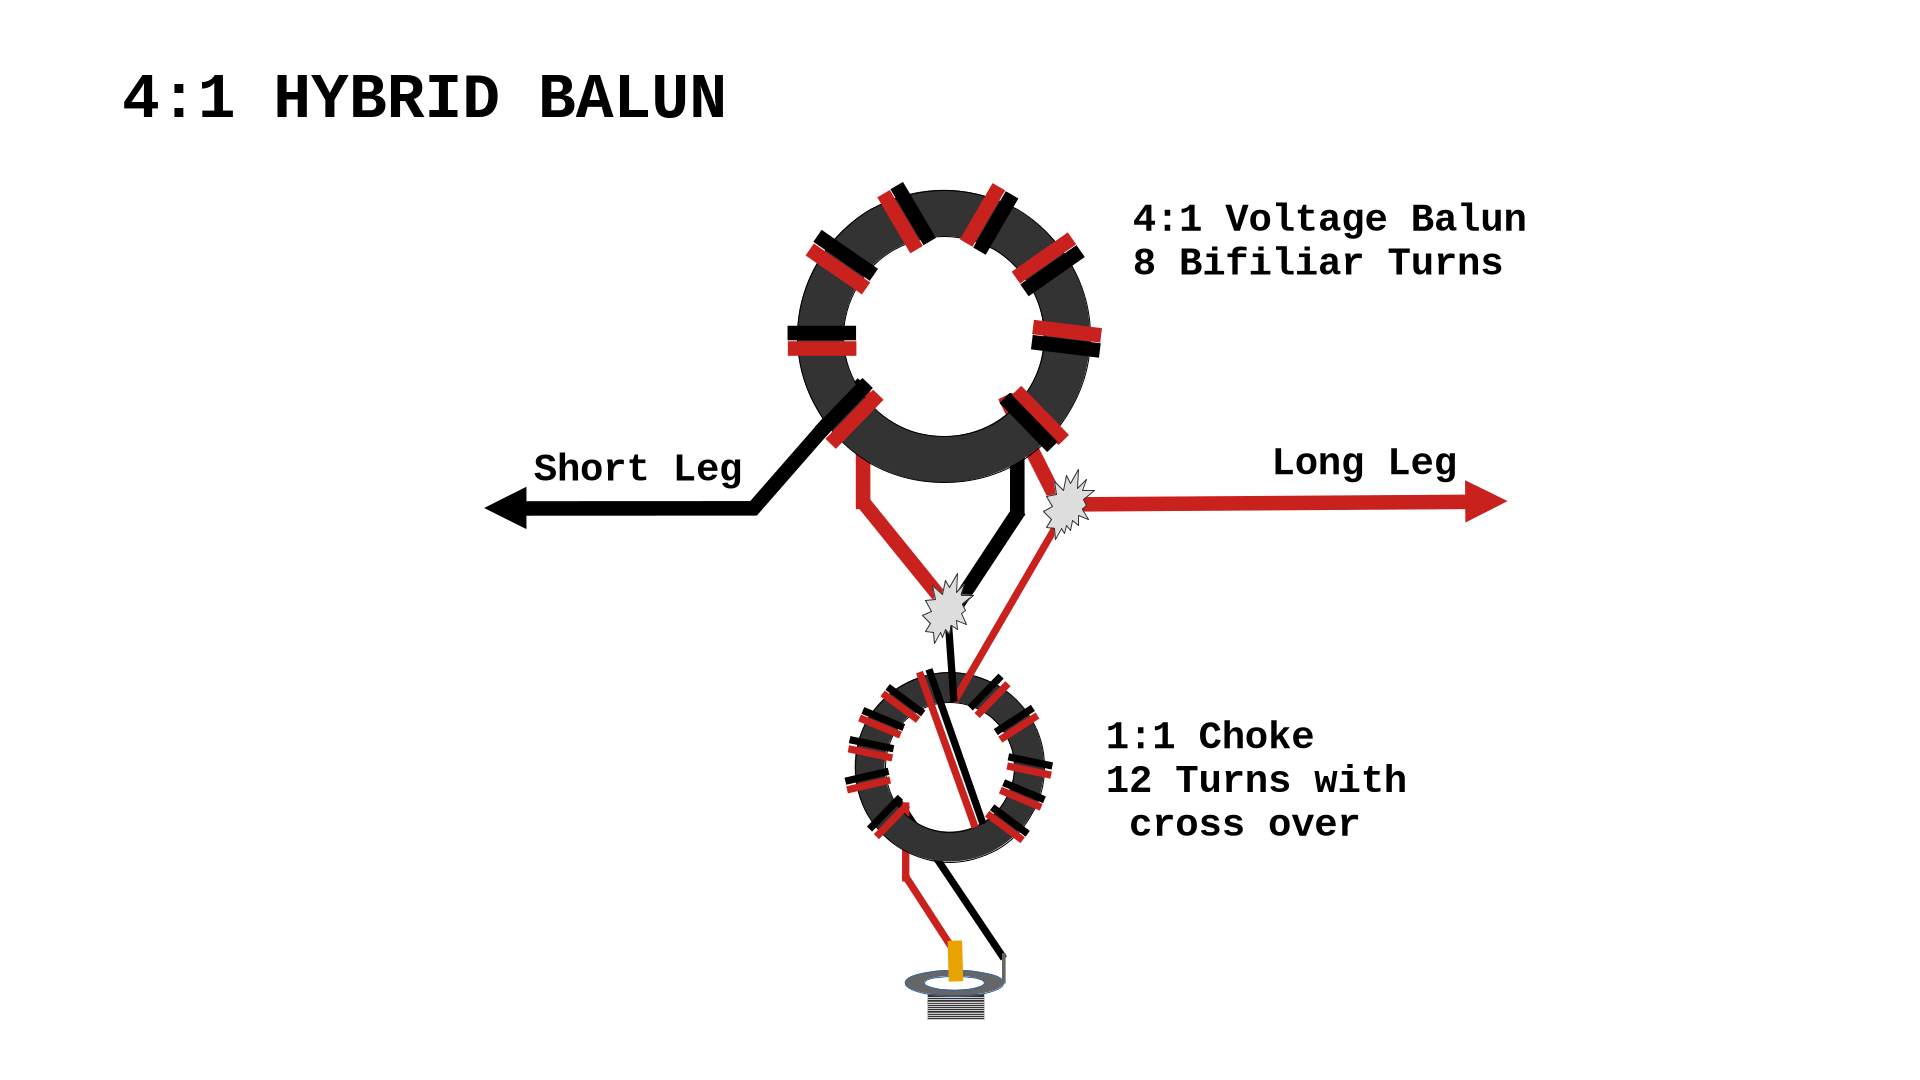
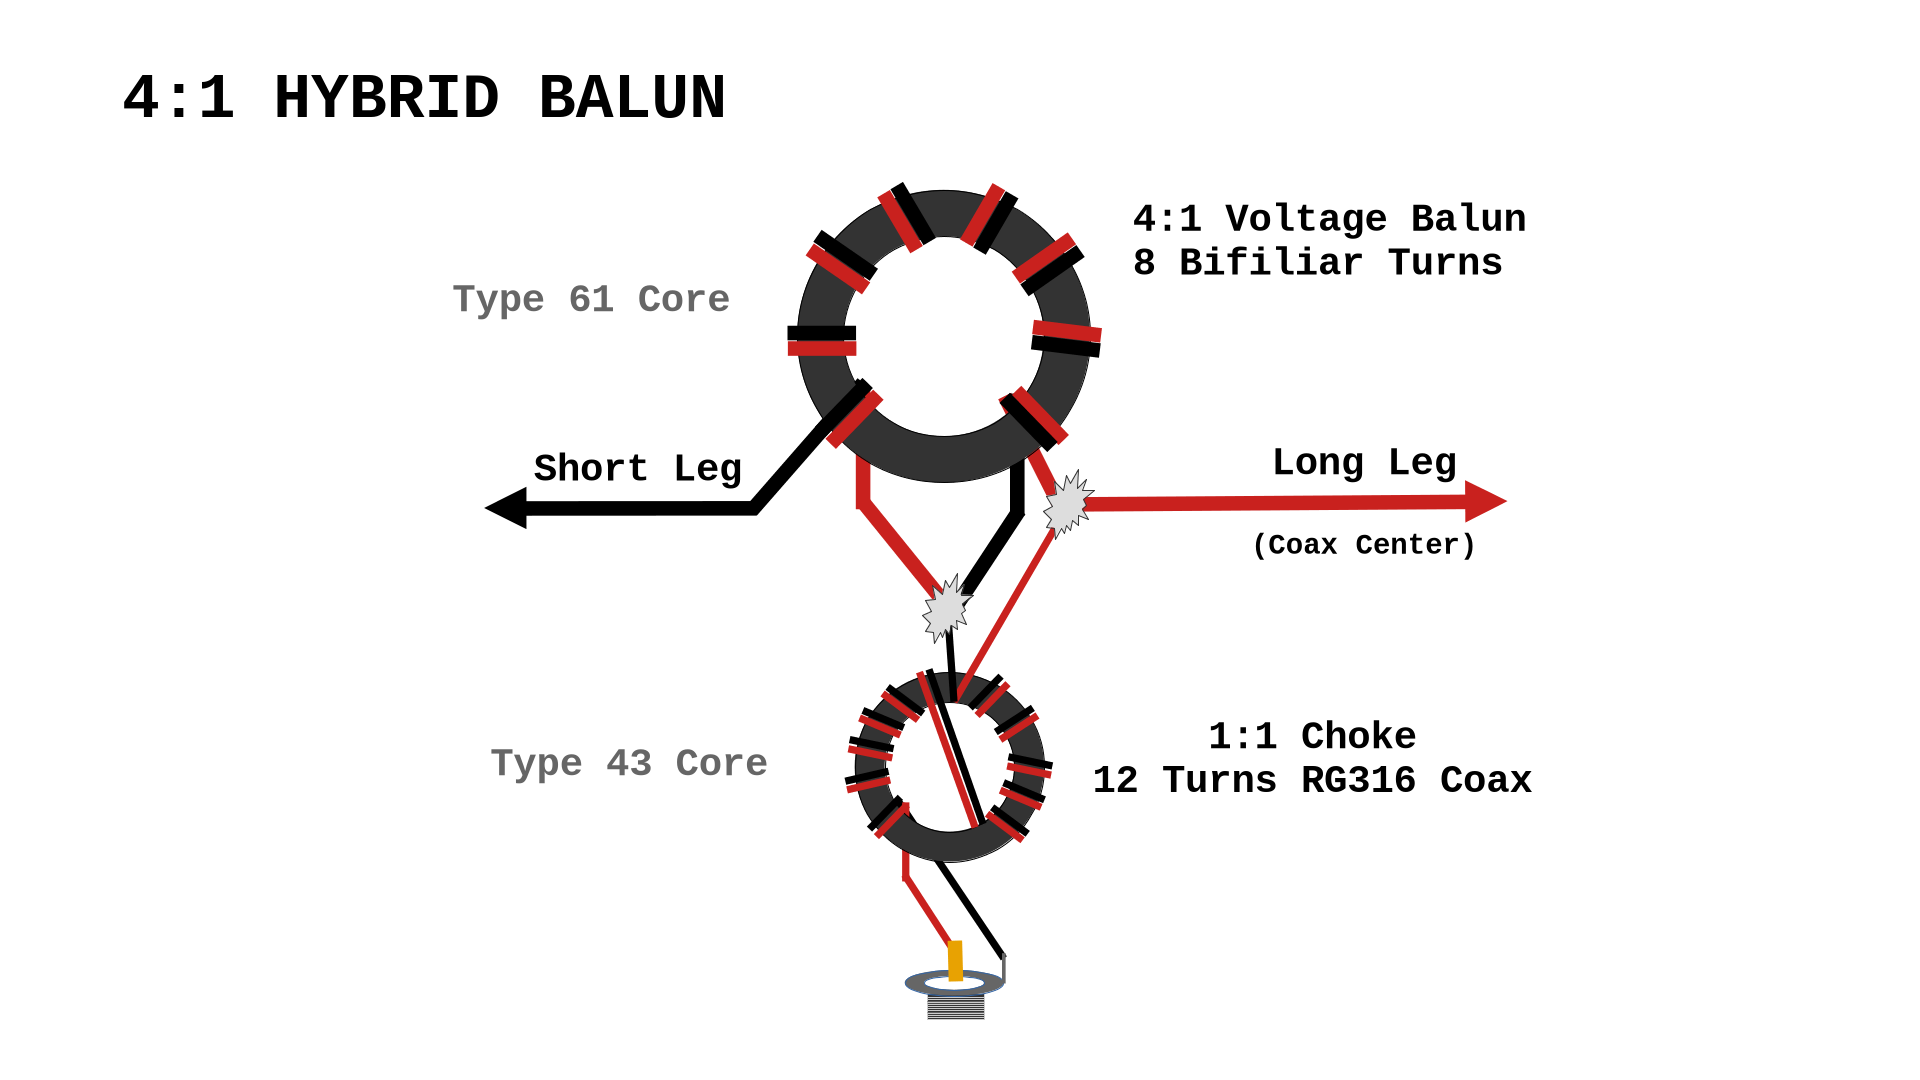
20250920

diff --git a/_posts/2025-04-14-ROCFD-Consolidated.md b/_posts/2025-04-14-ROCFD-Consolidated.md
@@ -1,31 +1,29 @@
 ---
-title: Residential Off-Center Fed Dipole - Consolidated
-date: 2025-04-14 06:00:00 -0600
+title: Residential Off-Center Fed Dipole
+date: 2025-09-08 06:00:00 -0600
 categories: [hamradio,antennas]
 tags: [OCFD, Antennas]
 ---
 
-**UPDATE**
-
->I had several previous posts on this antenna. I'm consolidating them all into this one post to keep things organized and accurate.
-
-A truly awesome QTH or portable antenna is the Off-Center Fed Dipole. These and variants have been long used by hams to get on the air with added gain. A true multi-band antenna you get 40M, 20M, 15M and 10M with only slight tuner touch ups. I used it for every band with a beefier tuner, but 40M-6M is most realistic with any kind of decent performance. There are 80M variants but this focus is the "*residential*" variety - meaning it can fit into many residential lots.
+A truly awesome QTH or portable antenna is the Off-Center Fed Dipole. These and variants have been long used by hams to get on the air with added gain. A true multi-band antenna you get 40M, 20M, 15M and 10M with only slight tuner touch ups. I used it for every band with a beefier tuner, but 40M-6M is most realistic with any kind of decent performance. There are 80M variants but this focus is the **"residential"** variety - meaning it can fit into many residential lots.
 
 ![ROCFD](./assets/ROCFDCon/ROCFD01.webp)
 
-### Introduction
+## Introduction
 
-I found out about this antenna originally on [YouTube](https://youtu.be/pwA1aPJcNKg?si=JAaBj4aKo-Yt1956). Then I came across this awesome presentation from Ted W3TB. I emailed him and he sent me a [link to a .PDF file](https://github.com/jrschultz/VE5REV/blob/main/assets/ROCFDCon/ResidentialOCFD.pdf) by Dick K5QY that is mentioned in the video. It was originally published in November 2018 in the now offline CQ magazine. It has great specs and modelling for the various bands.
+I found out about this antenna originally on [YouTube](https://youtu.be/pwA1aPJcNKg?si=JAaBj4aKo-Yt1956). Then I came across this awesome presentation from Ted W3TB. I emailed him and he sent me a [link to a .PDF file](https://github.com/jrschultz/VE5REV/blob/main/assets/ROCFDCon/ResidentialOCFD.pdf) by Dick K5QY that is mentioned in the video. It was originally published in November 2018 in the now offline 'CQ Magazine'. It has great specs and modelling for the various bands.
 
 ![YouTube](./assets/ROCFDCon/OCFDYT.webp)
 
-### The Build
+-----
 
-#### Wire
+## The Build
 
-What makes this "residential" is the shorter overall length. Also, it's not the usual 1/3 2/3 split of typical OCFD antennas. This one uses 41' and 27' sections or a 60/40 split. In discussion with Rick, DJ0IP, he recommends a 59.7/40.3 split. This is a minor tweak to the overall design of this antenna as specked in the PDF file. I used 18AWG speaker wire for the elements. **It doesn't matter** which element is connected to the coax center and shield as it's a dipole. 
+### Wire
 
-#### Balun Design
+What makes this "residential" is the shorter overall length. Also, it's not the usual 1/3 2/3 split of typical OCFD antennas. This one uses 41' and 27' sections or a 60/40 split. In discussion with Rick, DJ0IP, he recommends a 59.7/40.3 split. This is a minor tweak to the overall design of this antenna as specked in the PDF file. I used 18AWG speaker wire for the elements.
+
+### Hybrid Balun Design
 
 This is where I went down an incredibly long rabbit hole. The PDF file kind of skims over this, but Off Center Fed Dipoles almost always involve a lot of common mode current. There is massive debate about what balun you are supposed to use. Current? Voltage? Hybrid? And the long story short is this: if you aren't going to use a hybrid balun, use a 4:1 current balun and a 1:1 choke on both ends of your coax feed line. But the general recommendation now is to build **a hybrid balun**. This consists of a 4:1 voltage (Ruthroff) transformer and a 1:1 current choke. It saves cost, size and weight over a current balun because you only need potentially two cores instead of three. 
 
@@ -35,31 +33,37 @@ You can also use 16 twisted pair turns for the voltage transformer if you are us
 
 Check out [The Hitchhiker's Guide to OCFD](https://www.dj0ip.com/hhg2-ocfd). Rick, DJ0IP has got YouTube videos, PDF downloads and everything there. This is not some keyboard experts in a Facebook forum! This is all compiled, first hand field research. It doesn't get any better than this as a resource. 
 
-#### The Cores
+### The Cores
 
-For 100 watts SSB, the recommended core for the transformer is the Type 61 5961002701 1.400” (35.56mm) Outside Diameter. For the choke, the recommended core is the Type 43 5943002701 1.4” (35.55mm) OD. The Type 61 has got better thermals than Type 43 and will hold up better for demanding digital modes and CW. Shown here are 16 turns of twisted pair wire for the transformer and the choke with 16 turns of RG-316 coax.
+For 100 watts SSB, the recommended core for the transformer is the Type 61 5961002701 1.400” (35.56mm) Outside Diameter. For the choke, the recommended core is the Type 43 5943002701 1.4” (35.55mm) OD. The Type 61 has got better thermals than Type 43 and will hold up better for demanding digital modes and CW. Shown here are 8 bifiliar turns of 18g solid core wire for the transformer and the choke with 12 turns of RG-316 coax.
 
 ![HybridBalun](./assets/ROCFDCon/ROCFD03.webp)
 
-### Field Testing
+### The Housing
 
-#### Deployment
+I used an gasket-sealed, exterior electrical box which is really robust. It's also really heavy. I would recommend this for a QTH installation for sure. For a mobile build, you could probably get by with zip-tying the cores to a light piece of cutting board or plexiglass instead which would make it significantly lighter.
 
-Setting up this antenna for portable work is kind of a pain. You need to have trees in the exact right place and direction which can be challenging. The feed point center is kind of heavy so it might be difficult to deploy this on a mast. Fortunately, I found some trees in the right places. To deploy this, I lay the antenna out on the ground and then throw my paracord ropes into the trees for the middle and on both ends for support. I attach the coax and then raise the center and the ends up. This deployment height was less than optimal at only maybe 23' or so. It really should be closer to 30' up. This wire was running North West/South East.
+-----
 
-![Deployment](./assets/ROCFDCon/ROCFD05.webp)
+## Testing
 
-#### NanoVNA
+### NanoVNA
 
 On the bench, I tested the balun with a 200Ω resistor load. It's pretty good, but could use some additional work to tighten up the transformation. We're looking for a flat 50Ω response if our transformer is working correctly.
 
 ![NanoVNA](./assets/ROCFDCon/ROCFD07.webp)
 
+### Field Deployment
+
+Like all dipoles, setting up this antenna for portable work is kind of a pain. You need to have trees in the exact right place and direction which can be challenging. The feed point center is kind of heavy so it might be difficult to deploy this on lighter masts.  Fortunately, I found some trees in the right places. To deploy this, I laid the antenna out on the ground and then throw my paracord ropes into the trees for the middle and on both ends for support. I attach the coax and then raise the center first and then the antenna elements. 
+
+![Deployment](./assets/ROCFDCon/ROCFD05.webp)
+
 The sweep from this deployment was OK. The dips were in the right places but they could have been a bit better. I think this had to do with the less than optimal deployment height. However, an internal rig tuner could have cleaned these up no problems as it was only 2.5:1 at its worst on 40M. Wire length could also be trimmed a bit to help tighten up the resonance. 
 
 ![NanoVNA](./assets/ROCFDCon/ROCFD06.webp)
 
-#### WSPR
+### WSPR
 
 I ran my standard 20 minute, 1 Watt test. The pattern looks very good broadside the antenna as you would expect. I had no issues with the IC-705 locking up from CMI and I didn't use an additional 1:1 at the rig (which is highly advised). The IC-705 is a fussy beast and it performed with no issues with this setup which is very promising.
 

diff --git a/_posts/2025-09-20-4015.md b/_posts/2025-09-20-4015.md
@@ -1,0 +1,62 @@
+---
+title: 4015
+date: 2025-09-20 06:00:00 -0600
+categories: [hamradio]
+tags: [Antennas,EFHW]
+---
+![4015](./assets/4015/4015-00.webp)
+
+I pretty much gave up on multi-banded EFHW antennas because the harmonic either didn't work out or the efficiency was super poor. I set out to try and rectify that. I tried to build an EFHW that had the typical 40M, 20M, 15M and 10M bands. I only got 3 of them in the sloper configuration.
+
+## Enter: 4015 Build
+
+### Wire Winder
+
+I have never had a wire-winder antenna before so I got VE5ARV to print me one of [Ham Radio Dude's](https://www.thingiverse.com/thing:6572758). It turned out excellent!
+
+![4015](./assets/4015/4015-01.webp)
+
+### Core & Cap
+
+I wanted to use a more efficient core than the typical 140-43. So I decided on the Type 61 2661102002 (Size: 1.020” (25.91mm) OD) popularized by [Evil Lair Electronics](https://youtu.be/0s1kfxzLVXc?si=VsfDtTPfFuo80I5q). But in my build I made it a 49:1 ratio with a 100pF capacitor, hoping this might be more cooperative with the harmonics...spoiler: *it isn't.*
+
+![4015](./assets/4015/4015-02.webp)
+
+### Initial Setup
+
+Using 66' of 22AWG wire, I set the antenna up out back in the testing area and found that as I tuned for 40M, the rest of the harmonics went to pot. This has always been my experience with multi-banded EFHWs which is why I gave up on them. But I was committed to make this work. So I went to plan B.
+
+![4015](./assets/4015/4015-03.webp)
+
+### Compensation Coil
+
+Rumour has it that adding a small coil 6' from the feed point can have the effect of bringing the higher bands back down into resonance. So I got VE5ARV to print me one of [Ham Radio Dude's coils](https://www.thingiverse.com/thing:6530402). I did about 11 wraps as per the instructions but it wasn't enough.
+
+![4015](./assets/4015/4015-04.webp)
+
+I went and cut a double length coil former from scrap PVC. It's about the same .75" diameter but ended up being about 6cm long - enough for double the number of wraps. It ended up being about 18 or 20 wraps or so. This worked to bring 20M and 15M back into harmonic cooperation but unfortunately 10M remained a wild horse.
+
+## NANO VNA Sweeps
+
+As you can see, the coil did pretty well in bringing the harmonics back. Everything is under 2:1 except 10M which has gone rogue. 
+
+![4015](./assets/4015/4015-FINAL.webp)
+
+![4015](./assets/4015/4015-40M.webp)
+
+![4015](./assets/4015/4015-20M.webp)
+
+![4015](./assets/4015/4015-15M.webp)
+
+![4015](./assets/4015/4015-10M.webp)
+
+## Conclusion
+
+I'm pretty sure this build is going to perform better with less losses than using the typical Type 43 core. However, it is kind of a bummer to lose out on 10M. To me it's not a deal breaker by any means because 10M is hardly ever open here anyways. But, it's a matter of principle. *This should work!* It might be a combination of the core type as well as the winding pattern of the toroid. I could have bumped it up to a 64:1 and used a 120pF as per Evil Lair's build and this might have helped bring 10M back into the fold. The other thing is having the antenna wire too short. I probably should have cut it for the CW portion of the 40M band. This might have also helped 10M out. But as it stands now, I've got 3 usable bands on a very efficient core without a tuner, deployed as a convenient sloper. Not too shabby at all.
+
+![4015](./assets/4015/4015-05.webp)
+
+73 de VE5REV
+
+
+

diff --git a/_posts/2025-03-06-Random.md b/_posts/2025-03-06-Random.md
@@ -33,7 +33,7 @@ For my build I used a Type 43 FT-140 instead of my favourite fatty core. And the
 
 ![UnUn](./assets/Random/RND04.webp)
 
-I built two versions of this UnUn, one of the QTH and one for portable work. I have a 71' Random Wire as my main antenna at home and there is nothing more versatile in the field. I also included a 1:1 choke in both builds to help isolate out the coax and keep the antenna pattern true. For hooking up the 1:1, its connections just go from the SO-239 and then the coax center solders to the twisted pair of the UnUn. The shield solders with the ground connection of the UnUn. I then soldered in a jumper from those two connections for the counterpoise lug. Ignore where I dropped the soldering iron and melted the project box at the bottom. LOL!
+I built two versions of this UnUn, one for the QTH and one for portable work. I have a 71' Random Wire as my main antenna at home and there is nothing more versatile in the field. I also included a 1:1 choke in both builds to help isolate out the coax and keep the antenna pattern true. For hooking up the 1:1, its connections just go from the SO-239 and then the coax center solders to the twisted pair of the UnUn. The shield solders with the ground connection of the UnUn. I then soldered in a jumper from those two connections for the counterpoise lug. Ignore where I dropped the soldering iron and melted the project box at the bottom. LOL!
 
 ![Combo UnUn](./assets/Random/RND05.webp)
 
